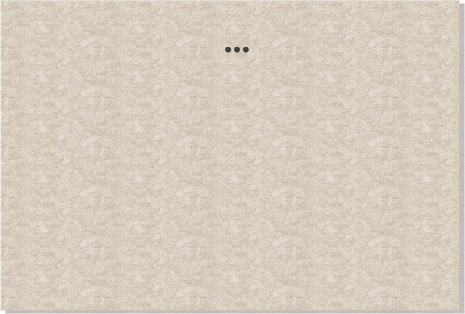
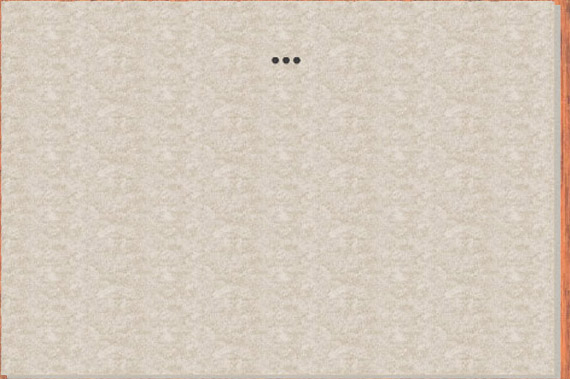
Final Project: More intro fixes

diff --git a/styles3.css b/styles3.css
@@ -1,11 +1,11 @@
 html {
-  background-color: rgb(128, 128, 128);
+  	background-color: rgb(128, 128, 128);
 	background-image: url(finalbackground.jpg);
 	background-attachment: fixed;
 }
 body {
 	margin: 0 auto;
-  width: 750px;
+  	width: 750px;
 	}
 
 #header {     
@@ -18,11 +18,11 @@ body {
 	} 
 
 #nav {
-	float: right;
+	padding: 0px 0px 40px 270px; 
 	margin: auto;  
 	width: 100%; 
 	list-style:none;
-	font-family: Georgia, serif;  
+	font-family: Georgia, serif; 
 	}
 	
 #nav li {
@@ -97,29 +97,30 @@ h1 {
 	font-size: 14pt; 
 	} 
 
-#imgBox { 
-	width: 90%;  
-	height: 1500px;   
+#imgBox {     
 	background-image: url('Paper.jpg'); 
-	background-repeat: no-repeat; 
-	align: left; 
+	background-repeat: no-repeat;  
+	padding: 0px 110px 0px 0px; 
 	} 
 
 #imgBox h1 { 
-	font-size: 11pt;
+	text-align: center;
+	padding: 15px 50px 15px 5px; 
 	width: 80%; 
-	text-align: center;  
-	padding: 50px 10px 10px 10px;   
+	font-size: 15pt; 
 	}
-	
+
+img { 
+	padding: 8px; 
+	}
 
 #imgBox p { 
-	font-size: 12pt;
-	width: 75%; 
-	text-align: left;  
-	padding: 15px 10px 5px 30px;   
+	width: 80%; 
+	font-size: 12pt; 
+	text-align: left;     
 	line-height: 1.1; 
 	margin: 0px; 
+	padding: 5px 30px 15px 20px; 
 	}
 
 
